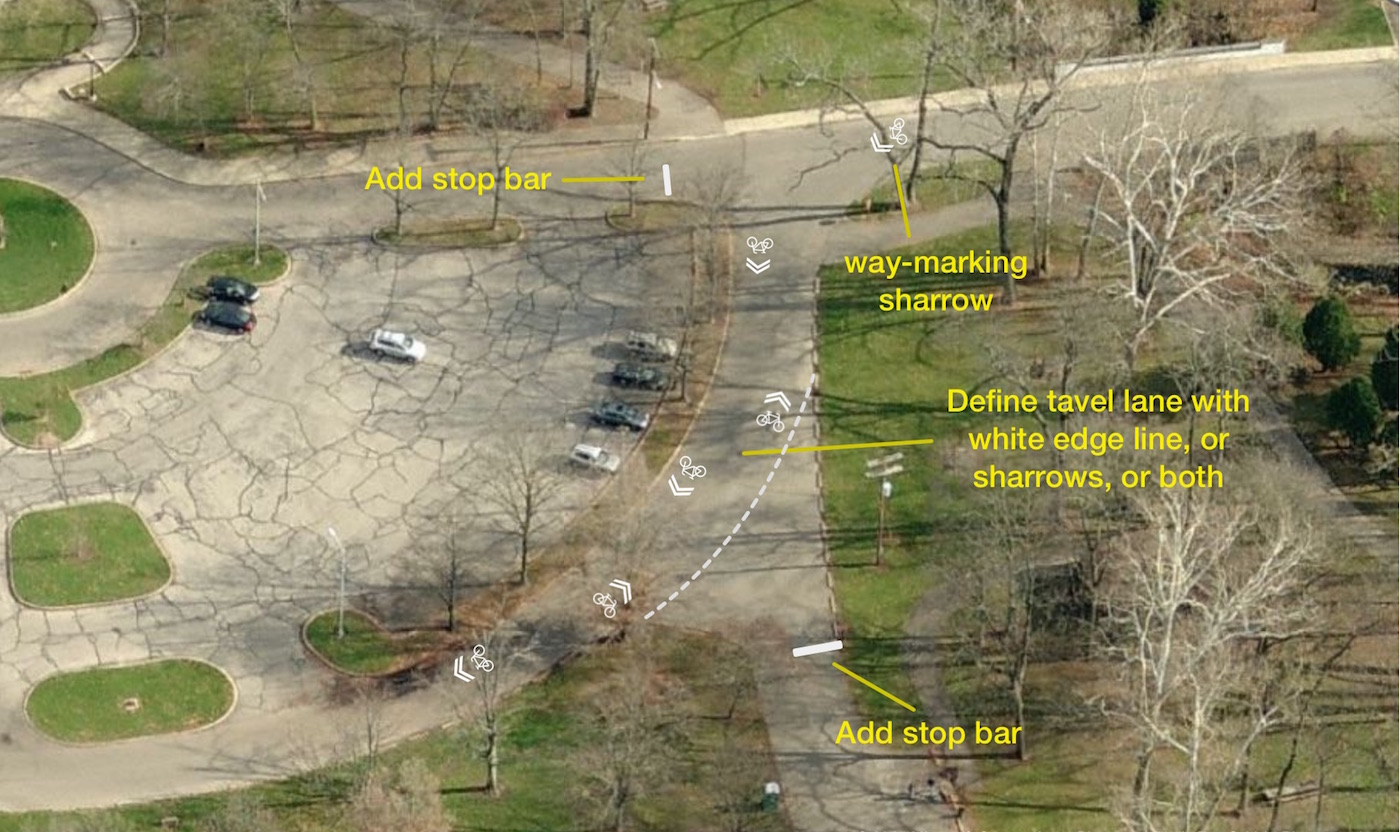
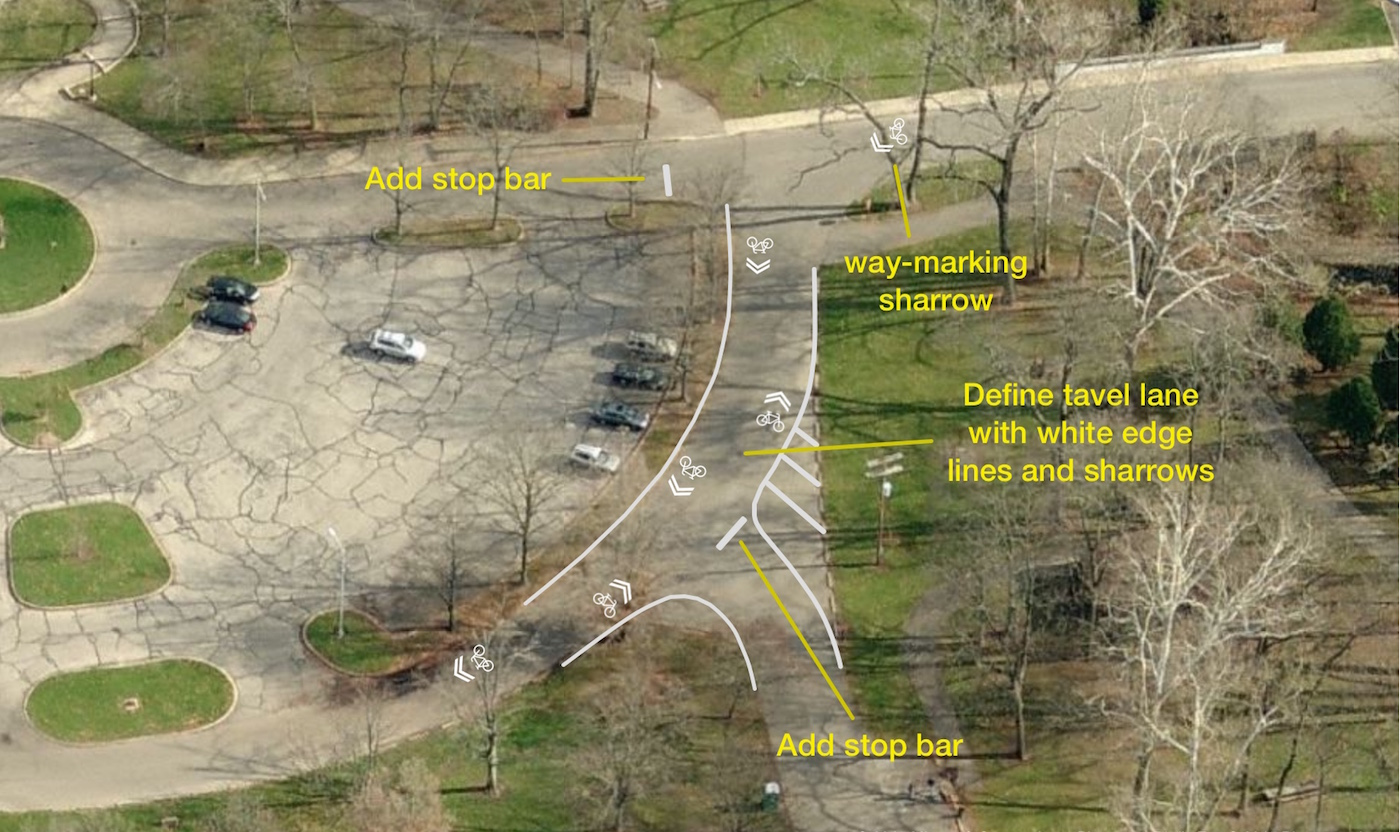
Site updated at 2015-09-11 14:07:01 UTC

diff --git a/2015/05/08/phase-1-route-and-design.html b/2015/05/08/phase-1-route-and-design.html
@@ -88,7 +88,7 @@
         By <address><a rel="author" href="" title="Will Koehler" target="_blank">Will Koehler</a></address> &mdash;
         <time pubdate datetime="2015-08-May" title="May 08, 2015">May 08, 2015</time> &mdash;
         
-8 min read
+9 min read
       </div>
       <h1 class="title">Phase 1 Route and Design</h1>
       
@@ -153,26 +153,44 @@ Greenways so that minimal changes will be required.</p>
 
 <p>Calumet Street <span class="muted smaller">(‘A’ on map)</span> is the biggest challenge on the
 Neighborhood Greenways route. Traffic volume is 2200 cars/day - twice what we would like. 85th
-percentile speed is 33mph in some places - well above our goal of 25mph. Calumet is a neighborhood
-collector, which means traffic restrictions would be difficult. Because on-street parking is widely
-used, we cannot make room for bike lanes.</p>
+percentile speed is 33mph in some places - well above our goal of 25mph. Because of the windy
+nature of the road and higher traffic volumes, unsafe passes are common, making this road
+unsuitable in it’s current condition for families and other risk-averse people.</p>
 
-<p><b>Create well-defined travel lanes.</b> Stripe out an 8’ parking lane with a white line. Add a yellow
-center line. This will define the travel lanes and visually narrow the road, which has been shown to
-slow down traffic.</p>
+<p>Calumet is a neighborhood collector, which means traffic restrictions will be difficult. Because
+on-street parking is widely used, especially south of Weber, we cannot make room for bike lanes.</p>
 
-<p>Consider using a dashed yellow line where it’s safe to pass people biking and double yellow line
-elsewhere.</p>
+<p><b>Visually narrow road.</b> The wide sections of Calumet lead to faster speeds. One option
+is to stripe out an 8’ parking lane. Also evaluate for green infrastructure such as curb bump
+outs in coordination with Columbus Blueprint.</p>
 
-<p><b>Add green sharrows</b> at 75 to 100 foot intervals. Sharrows on a green background are more
-effective than standard sharrows and are recommended for roads with higher traffic volume. More
-frequent sharrows are also advised for roads with higher traffic volume and speed.</p>
+<p><b>Remove yellow center line.</b> A yellow center line encourages higher speeds and more
+dangerous passing behavior. Use short sections of yellow center lines only at major intersections
+(Arcadia, Weber, Broadway) and around blind curves.</p>
+
+<p><b>Use more frequent sharrows.</b> More frequent sharrows are advised for roads with higher
+traffic volume and speed. Consider sharrows at 75 to 100 foot intervals.</p>
+
+<p><b>Add “Bikes may use full lane” signs.</b> These signs are the recommended standard for
+clarifying that bikes are allowed full use of the road. “Share the road” signs should not
+be used.</p>
 
 <div class="full rounded shadow"><img src="/images/phase-1/calumet.jpg" /></div>
 
+<h2 id="intersection-of-torrence-road-and-high-street">Intersection of Torrence Road and High Street</h2>
+
+<p>Traffic at this intersection <span class="muted smaller">(‘B’ on map)</span> increased
+significantly after the new Starbucks opened. Although drivers are fairly cautious and aware
+of people biking and walking, the large volume of cars can make navigating this intersection
+tricky for people biking and walking.</p>
+
+<p><b>Add ladder-style crosswalks</b> More prominent crosswalks will highlight the neighborhood
+greenway crossing, raise awareness of the increased bike and pedestrian traffic, and make
+people walking and on bikes feel more comfortable.</p>
+
 <h2 id="intersection-of-milton-northmoor-and-montrose-way">Intersection of Milton, Northmoor, and Montrose Way</h2>
 
-<p>This 6-way intersection <span class="muted smaller">(‘B’ on map)</span> is large and has numerous
+<p>This 6-way intersection <span class="muted smaller">(‘C’ on map)</span> is large and has numerous
 conflict points. While traffic volume is generally low, it can still be tricky to navigate with bikes,
 cars and pedestrians all using the same space.</p>
 
@@ -183,19 +201,19 @@ the circle.</p>
 
 <h2 id="intersection-of-milton-and-hollenback">Intersection of Milton and Hollenback</h2>
 
-<p>This intersection <span class="muted smaller">(‘C’ on map)</span> is difficult to navigate because
+<p>This intersection <span class="muted smaller">(‘D’ on map)</span> is difficult to navigate because
 it’s offset with the exit from the library. Traffic is generally slow and people navigate cautiously.
 The most common conflict is between people turning left from Milton onto Hollenback and people exiting
 the library.</p>
 
 <p>Long-term this intersection should be re-aligned with the library exit and converted to a 4-way stop.
-For Phase 1 <b>consider adding green sharrows</b> to highlight the presence of bikes.</p>
+For Phase 1 <b>consider adding additional sharrows through the turn</b> to highlight the presence of bikes.</p>
 
 <div class="full rounded shadow"><img src="/images/phase-1/intersection-of-milton-and-hollenback.jpg" /></div>
 
 <h2 id="hollenback">Hollenback</h2>
 
-<p>Hollenback <span class="muted smaller">(‘D’ on map)</span> is a park road. Traffic volume is sometimes
+<p>Hollenback <span class="muted smaller">(‘E’ on map)</span> is a park road. Traffic volume is sometimes
 high, especially on evenings with children’s soccer. However speeds are low and people are alert.</p>
 
 <p>There is a side path that parallels Hollenback. This path is narrow and the surface is
@@ -209,12 +227,12 @@ Hollenback and should be marked with sharrows.</p>
 
 <h2 id="shelter-house-parking-lot">Shelter house parking lot</h2>
 
-<p>The route past the shelter house parking lot <span class="muted smaller">(‘E’ on map)</span>
+<p>The route past the shelter house parking lot <span class="muted smaller">(‘F’ on map)</span>
 is confusing. It appears the road goes straight into the parking lot. There are two parking
 lot exits with stop signs, but because of the curvy nature of the road, it’s not clear who has
 the right of way.</p>
 
-<p><b>Use sharrows or a white edge line to define the travel lane.</b> Add stop bars at parking
+<p><b>Use sharrows and a white edge line to define the travel lane.</b> Add stop bars at parking
 lot exits to clarify right of way.</p>
 
 <div class="full rounded shadow"><img src="/images/phase-1/shelter-house-parking-lot.jpg" /></div>
@@ -222,28 +240,35 @@ lot exits to clarify right of way.</p>
 <h2 id="exit-to-olentangy-blvd">Exit to Olentangy Blvd</h2>
 
 <p>Replace gate with bollards, allowing people biking to pass through, or add a new bike
-exit following the desired direction of travel <span class="muted smaller">(‘F’ on map)</span></p>
+exit following the desired direction of travel <span class="muted smaller">(‘G’ on map)</span></p>
 
 <div class="full rounded shadow"><img src="/images/phase-1/exit-to-olentangy.jpg" /></div>
 
 <h2 id="intersection-of-olentangy-blvd-and-henderson-road">Intersection of Olentangy Blvd and Henderson Road</h2>
 
-<p>The light cycle at this intersection <span class="muted smaller">(‘G’ on map)</span> is very long.
+<p>The light cycle at this intersection <span class="muted smaller">(‘H’ on map)</span> is very long.
 This adds significant delay to trips on the Neighborhood Greenways route. It also causes a large
 number of cars to queue up on Olentangy Blvd during rush hour. <b>Evaluate shortening the light
 cycle</b> to reduce delay for Neighborhood Greenways traffic.</p>
 
-<p><b>Evaluate the intersection for bike boxes</b>. Generally people drive cautiously at this
-intersection and there are very few conflicts between cars, bikes and pedestrians. However
-as the Neighborhood Greenways traffic increases, bike boxes would allow people biking to clear
-the intersection quickly at the start of the light cycling instead of mixing with a line
-of cars.</p>
+<p>There is also a problem with drivers bullying people on bikes at this intersection. Drivers that
+want to turn right don’t like waiting behind bikes that are going straight and sometimes honk
+and yell at them to “get out of the road”. Bikes often go up on the sidewalk ramps to wait
+which causes problems at they re-integrate into the traffic flow when the light changes.</p>
+
+<p><b>Evaluate the intersection for bike boxes</b>. Bike boxes would create space for bikes
+to wait for the light and would clearly communicate that people on bikes should wait in
+the road and not on the sidewalk ramps.</p>
+
+<p><b>Add ladder-style crosswalks</b>. More prominent crosswalks will highlight the neighborhood
+greenway crossing, raise awareness of the increased bike and pedestrian traffic, and make
+people walking and on bikes feel more comfortable.</p>
 
 <p><a id="weisheimer"></a></p>
 
 <h2 id="intersection-of-weisheimer-road-and-high-street">Intersection of Weisheimer Road and High Street</h2>
 
-<p>This intersection is offset <span class="muted smaller">(‘H’ on map)</span>. However, since there
+<p>This intersection is offset <span class="muted smaller">(‘I’ on map)</span>. However, since there
 is a 4-way traffic signal, it would be possible to <b>re-align the intersection for bikes</b>. This
 could be done by converting one of the bank exit lanes to a two-way bike lane, or by adding a two-way
 bike lane to the north of the bank exit. The north-east corner of Weisheimer and High is being

diff --git a/updates.html b/updates.html
@@ -94,7 +94,7 @@
         <address>Will Koehler</address> &mdash;
         <time pubdate datetime="2015-08-May" title="May 08, 2015">May 08, 2015</time> &mdash;
         
-8 min read
+9 min read
       </div>
       <hr>
     </section>
